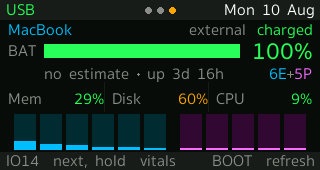
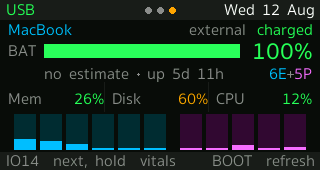
Recapture the four pages off the panel
The shots in docs/pages were taken at 8d41dc1 and had gone stale in their
figures rather than their layout — nothing on any page has moved since. These
are pulled the same way, over the bridge's passthrough socket off the panel's
own framebuffer, with the Mac awake so the usage and Mac pages carry live
readings instead of the dashes a sleeping host leaves behind.

One thing did change underneath them. Since 28ad6c5 the panel rests on the
usage page while the Mac is answering, so a capture run no longer starts on
the clock — the README's grab_screen example said "all three pages" and left
you to assume the first one was `now`. It now says which page you actually
get and why.

diff --git a/README.md b/README.md
@@ -197,6 +197,10 @@ of it — as a PNG:
 .venv/bin/python tools/grab_screen.py shot 3      # capture all three pages
 ```
 
+It captures from wherever the panel is rather than from the first page, so which
+page lands in `shot0.png` is whichever one it was resting on — the usage page
+while the Mac is answering, the clock once it stops.
+
 | | |
 |---|---|
 | `N` | next page |
